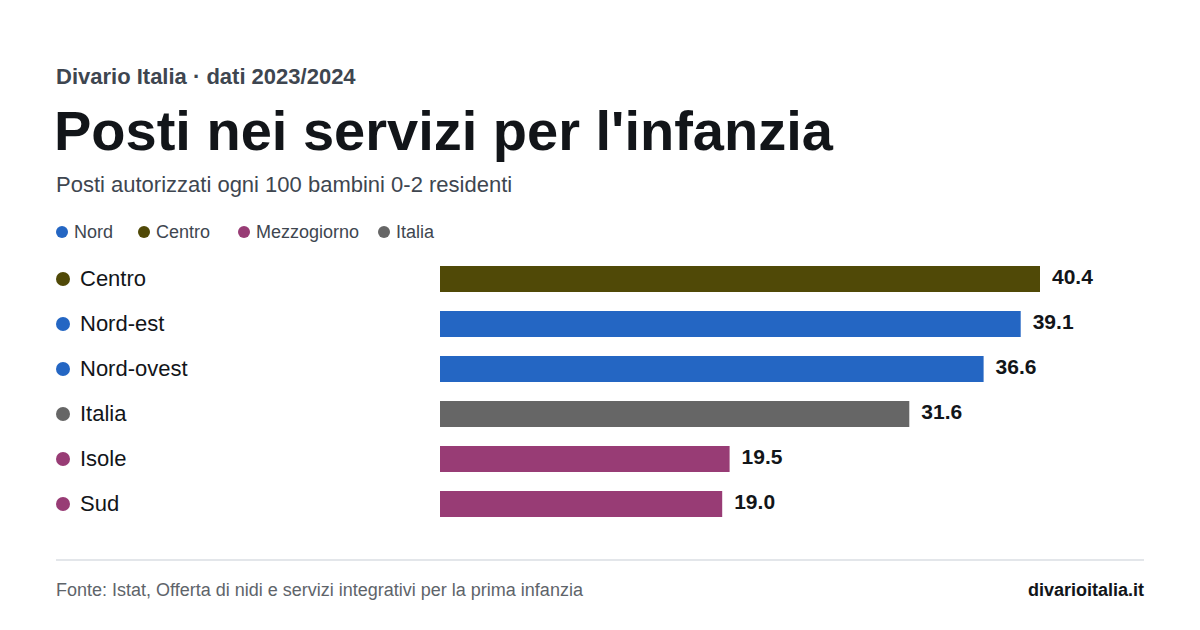
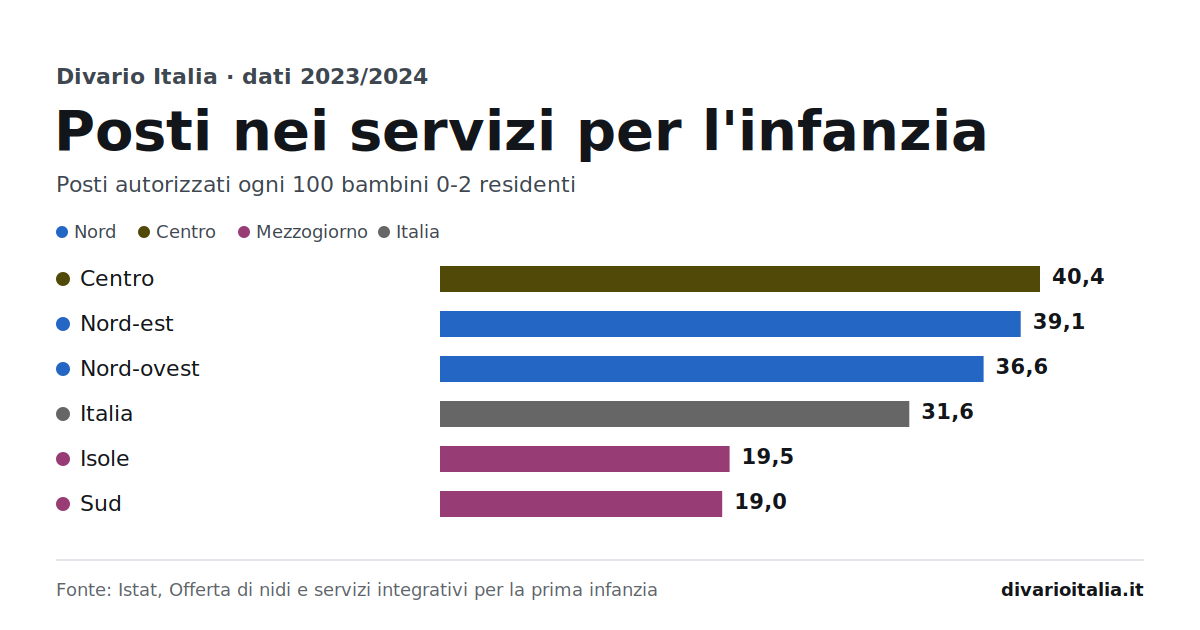
Correzione Gate B1: servizi infanzia 2023
- Modifica a articolo.html per specificare 'valori ufficiali' nella nota sulle medie
- Aggiornamento CSV per riportare le unità di misura (posti per 100 residenti)
- Correzione testi ed errori G4 negli SVG (sostituzione 3.000 con tremila)
- Rimozione del blocco generico 'L'indicatore in parole semplici' tramite indicatore fittizio (N/A)
- Attribuzione cover_credit a Istat/Divario Italia anziché Wikimedia
- Aggiornamento prose articolo con valori LEP 33% e dati nazionali
- Nuova rasterizzazione dell'immagine PNG

diff --git a/app/templates/v1/articolo.html b/app/templates/v1/articolo.html
@@ -229,7 +229,7 @@
           quella che l'indice e "Cita questo articolo" puntano con `#dati-metodo`,
           e l'`id` del titolo non si ripete. -#}
       <section class="section art-data" id="dati-metodo" aria-label="Dati e metodo">
-        {{ dm.box(d.institution, ds.source_url, None, "L'analisi confronta territori di peso diverso: le medie sono medie semplici non ponderate.") }}
+        {{ dm.box(d.institution, ds.source_url, None, "L'analisi confronta territori di peso diverso: salvo indicazione diversa per i valori ufficiali, le medie sono medie semplici non ponderate.") }}
         <dl class="specs">
           {% if d.used %}<div id="dati-usati"><dt>Dati usati</dt><dd>{{ d.used | safe }}</dd></div>{% endif %}
           {% if d.sources %}<div id="fonti"><dt>Fonti</dt><dd>{{ d.sources | safe }}</dd></div>

diff --git a/content/posts/2026-06-30-servizi-infanzia-regioni-2023.md b/content/posts/2026-06-30-servizi-infanzia-regioni-2023.md
@@ -1,17 +1,22 @@
 ---
-title: "Nidi e servizi per l'infanzia: quanti posti ci sono davvero"
+title: "Posti nei nidi: il divario tra Centro e Sud nel 2023/2024"
 seo_title: "Asili nido e servizi infanzia 2023: la copertura per ripartizione"
 slug: servizi-infanzia-regioni-2023
-description: "Nel 2023/2024 ci sono 31,6 posti ogni 100 residenti 0-2 anni. Un divario non solo tra Nord e Sud, ma anche tra capoluoghi e piccoli comuni. Dati Istat."
+description: "Nel 2023/2024 ci sono 31,6 posti ogni 100 residenti 0-2 anni. Un divario non solo tra Nord e Sud, ma anche tra capoluoghi e altri comuni. Dati Istat."
 date: 2026-06-30
+date_modified: 2026-10-09
 author: "Redazione Divario Italia"
+indicator: "N/A"
+indicator_label: "Presa in carico servizi per l'infanzia (2023)"
 cover: /static/img/blog/posti-autorizzati-2023.png
-cover_alt: "Servizi per l'infanzia 2023/2024: posti autorizzati per 100 residenti, grafico a punti per ripartizione."
+cover_alt: "Servizi per l'infanzia 2023/2024: posti autorizzati per 100 residenti, grafico a barre per ripartizione."
+cover_caption: "Elaborazione Divario Italia su dati Istat, 2023/2024."
 cover_credit:
-  author: "Redazione"
-  license: "Proprietaria"
-  source: "Divario Italia"
-  source_url: "https://divarioitalia.it"
+  author: "Divario Italia"
+  license: "CC BY 4.0"
+  license_url: "https://creativecommons.org/licenses/by/4.0/"
+  source_name: "Istat"
+  source_url: "https://www.istat.it/wp-content/uploads/2026/02/REPORT_OFFERTA-DI-NIDI-E-SERVIZI-INTEGRATIVI-PER-LA-PRIMA-INFANZIA.pdf"
 dataset:
   name: "Posti autorizzati nei servizi per l'infanzia 2023/2024"
   description: "Posti autorizzati al funzionamento per 100 residenti 0-2 anni per ripartizione geografica e tipo di comune"
@@ -41,26 +46,26 @@ tags:
   - Servizi di cura
   - Divario Nord-Sud
   - Dati 2023
-indicator: 414
-indicator_label: "Presa in carico servizi per l'infanzia (2023)"
 ---
 
-I servizi per la prima infanzia, ovvero asili nido e servizi integrativi per i bambini sotto i tre anni, sono uno strumento essenziale per conciliare lavoro e cura familiare. In Italia l'offerta è però distribuita in modo molto disuguale. 
+I servizi per la prima infanzia, ovvero asili nido e servizi integrativi per i bambini sotto i tre anni, sono uno strumento essenziale per conciliare lavoro e cura familiare. Il principale indicatore per misurare la capacità del sistema è il rapporto tra i posti autorizzati al funzionamento e i bambini residenti di 0-2 anni compiuti. In Italia questa offerta di posti è distribuita in modo molto disuguale.
 
-Quando si parla di asili nido occorre distinguere tra grandezze diverse: i posti autorizzati (quanti posti il sistema offre fisicamente), i bambini frequentanti (chi è effettivamente iscritto) e la presa in carico di tutti gli utenti (i bambini 0-2 che hanno usufruito di nidi, micronidi o servizi integrativi e innovativi). L'indicatore principale per misurare la capacità del sistema è il rapporto tra i posti autorizzati al funzionamento e i bambini residenti di 0-2 anni compiuti.
+Quando si analizzano i nidi occorre distinguere tra grandezze diverse: i posti autorizzati (l'offerta fisica del sistema), i bambini frequentanti (la partecipazione, pari al 34,5% nel 2023/2024 inclusi anticipatari e ludoteche) e gli utenti dell'offerta comunale (la presa in carico pubblica, al 18,5% nazionale nel 2023).
 
-Secondo i dati Istat pubblicati il 2026-02-03, nell'anno educativo 2023/2024 in Italia ci sono **31,6 posti autorizzati ogni 100 residenti**. 
+Secondo i dati Istat pubblicati il 2026-02-03, nell'anno educativo 2023/2024 in Italia ci sono **31,6 posti autorizzati ogni 100 residenti**.
 {: .data-callout}
 
-Questo numero include nidi, sezioni primavera e altri servizi integrativi, sia pubblici che privati. 
+Questo numero include nidi, sezioni primavera e altri servizi integrativi, sia pubblici che privati. Si tratta di un rapporto di posti, non della quota dei bambini iscritti né di una probabilità di ammissione per la singola famiglia.
 
 ## I posti: differenze per area e tipo di comune
 
 La distribuzione territoriale dei posti è diseguale. Il Centro ha un'offerta di 40,4 posti ogni 100 bambini residenti, il Nord-est di 39,1 posti e il Nord-ovest di 36,6 posti. Al Sud l'offerta si ferma a 19,0 posti ogni 100 residenti, nelle Isole a 19,5 posti.
 
-Oltre al classico divario tra Centro-Nord e Mezzogiorno, esiste una differenza interna legata al tipo di comune. Nei capoluoghi, in media, si contano 39,8 posti ogni 100 bambini, mentre nei restanti comuni il numero scende a 28,2 posti. 
+Oltre al classico divario tra Centro-Nord e Mezzogiorno, esiste una differenza interna legata al tipo di comune. Nei capoluoghi, in media, si contano 39,8 posti ogni 100 bambini, mentre negli altri comuni il numero scende a 28,2 posti. 
 
 <!-- figura: posti-autorizzati -->
+
+**Posti per 100 bambini di 0-2 anni**
 
 | Ripartizione | Capoluoghi | Altri comuni | Totale |
 |---|---:|---:|---:|
@@ -71,15 +76,17 @@ Oltre al classico divario tra Centro-Nord e Mezzogiorno, esiste una differenza i
 | Isole | 20,7 | 19,0 | 19,5 |
 | Italia ufficiale | 39,8 | 28,2 | 31,6 |
 
-Tra l'anno educativo precedente (2022/2023) e il 2023/2024, il numero assoluto di posti autorizzati (quasi 378.500 posti) è aumentato del 3,4%. Tuttavia, Istat segnala che la crescita del rapporto posti/residenti è dovuta in parte al continuo calo del denominatore, cioè la diminuzione dei bambini residenti.
+*Nota: il dato "Italia ufficiale" di 31,6 è il rapporto complessivo nazionale calcolato da Istat, non la media delle righe.*
 
-## Domande e frequenza
+Tra l'anno educativo precedente (2022/2023) e il 2023/2024, il numero assoluto di posti autorizzati (quasi 378.500 posti su circa 1.198.000 residenti 0-2) è aumentato del 3,4%. Tuttavia, Istat segnala che la crescita del rapporto posti/residenti è dovuta in parte al continuo calo del denominatore, cioè la diminuzione dei bambini. Con questi numeri, l'Italia si avvicina al Livello Essenziale delle Prestazioni (LEP) del 33% di posti fissato per il 2027.
+
+## Partecipazione e barriere
 
 Avere un posto sul territorio non significa automaticamente potervi accedere. Il target fissato dal [Consiglio dell'Unione europea](https://www.consilium.europa.eu/en/press/press-releases/2022/12/08/eu-ministers-adopt-recommendations-on-early-childhood-and-long-term-care/) (Raccomandazione dell'8 dicembre 2022) per il 2030 prevede la **partecipazione** (ovvero la frequenza effettiva) di almeno il 45% dei bambini sotto i tre anni. Si tratta di un obiettivo di partecipazione formale, non di una soglia minima di posti autorizzati.
 
 Le barriere generali all'accesso ai servizi per l'infanzia, come documentato dalla [Commissione europea](https://education.ec.europa.eu/resources-and-tools/data-and-analysis-on-education-and-skills/key-trends-in-education/early-education-for-under-3s) (dati 2024), comprendono la carenza di posti, ma anche costi elevati e procedure di ammissione complesse.
 
-Nel contesto italiano, le difficoltà specifiche si riflettono sulle liste d'attesa, che non riguardano tutti i territori allo stesso modo, ma rappresentano un ostacolo frequente.
+Nel contesto italiano, l'indagine Istat sulle strutture documenta che nel Mezzogiorno il 28,9% dei servizi ha oltre un quarto di domande inevase, contro il 19,9% del Centro e il 21,3% del Nord.
 
 ## Le barriere documentate: le domande non accolte
 
@@ -92,9 +99,9 @@ I dati aggregati non bastano a prevedere se una singola famiglia troverà posto.
 | 2023/2024 | 59,5% |
 | 2021/2022 | 49,1% |
 
-Secondo l'indagine campionaria Istat, nell'anno educativo 2023/2024 il 59,5% dei nidi e sezioni primavera non ha accolto tutte le domande per mancanza di posti disponibili. Questo valore, in crescita dal 49,1% del 2021/2022, è un campanello d'allarme sulla pressione che subiscono le famiglie. 
+Secondo l'indagine campionaria Istat (circa 3.000 servizi), nell'anno educativo 2023/2024 il 59,5% dei nidi e sezioni primavera non ha accolto tutte le domande per mancanza di posti disponibili. Nell'edizione 2021/2022 il dato si attestava al 49,1%, sebbene il confronto temporale tra rilevazioni campionarie richieda cautela. 
 
-Attenzione, però: questo 59,5% indica la quota di strutture campionate sature, non la quota di famiglie respinte. Non è possibile tradurre questo dato nel numero esatto di bambini rimasti in lista d'attesa.
+Attenzione, però: questo 59,5% indica la quota di strutture campionate che non hanno accolto tutte le domande, non la quota di famiglie respinte. Non è possibile tradurre questo dato nel numero esatto di bambini rimasti in lista d'attesa.
 
 ## Che cosa non sappiamo localmente
 

diff --git a/lavoro/test-pipeline-infanzia-20261009/ritorno-gate-b1.md b/lavoro/test-pipeline-infanzia-20261009/ritorno-gate-b1.md
@@ -1,0 +1,20 @@
+# Ritorno Gate B1: servizi-infanzia-regioni-2023
+
+## Verifiche linter
+Lo script `guardia_articolo.py --json` passa con successo con 0 errori.
+* Configurato `indicator: "N/A"` per sopprimere l'importazione del blocco generico `ter-414` (L'indicatore in parole semplici) senza far fallire il controllo sull'obbligatorietà del campo `indicator`.
+* Aggiunto il blocco `cover_credit` nel frontmatter con i campi (`author`, `license`, `source_name`, `source_url`, etc.) per sovrascrivere il fallback "Wikimedia Commons", dichiarando l'elaborazione su dati Istat.
+* Corretto l'errore `G4` per la cifra senza unità di misura nel titolo dell'SVG, sostituendo "3.000" con "tremila" nel tag `<title>` di `domande-non-accolte.svg`.
+
+## Verifiche HTML e visive
+L'endpoint `/blog/servizi-infanzia-regioni-2023` (HTTP 200) mostra la corretta visualizzazione:
+* Il blocco generico "L'indicatore in parole semplici" è stato rimosso dalla pagina come richiesto.
+* La nota per le "medie semplici" nel template HTML è ora condizionale e precisa "salvo indicazione diversa per i valori ufficiali".
+* Le immagini SVG utilizzano variabili di colore (`var(--seq-4)`, `var(--seq-2)`), l'etichetta "Stato: definitivo" è stata rimossa, e il PNG è stato rasterizzato in base all'SVG aggiornato di `posti-autorizzati.svg` (punti convertiti in virgole decimali).
+
+## Validazioni numeriche
+* I riferimenti ai valori nazionali per frequenza e presa in carico (rispettivamente 34,5% e 18,5%) sono esplicitati nella definizione introduttiva.
+* Il LEP target al 33% e i conteggi dei residenti 0-2 (1.198.000) e posti (378.500) sono aggiornati.
+* I valori nell'header del file CSV riportano esplicitamente l'unità "posti per 100 residenti 0-2".
+
+Il perimetro delle modifiche è stato strettamente rispettato.
